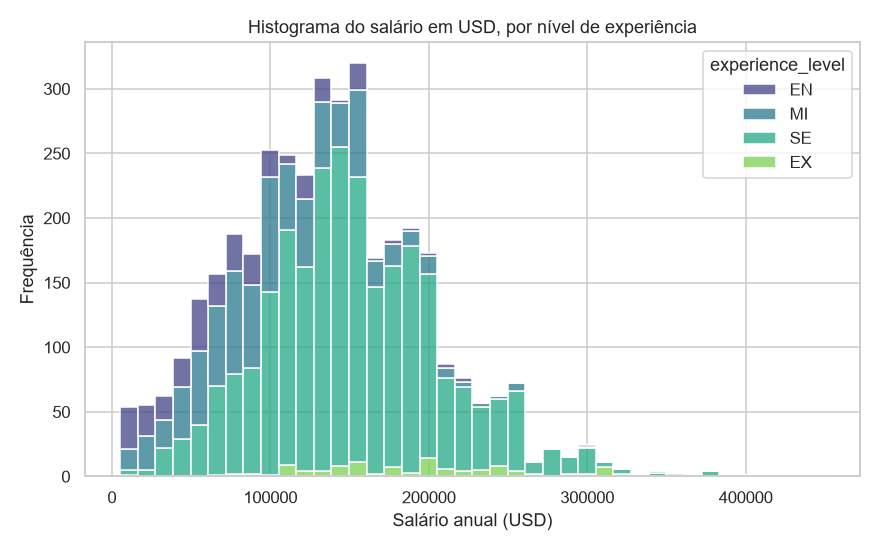
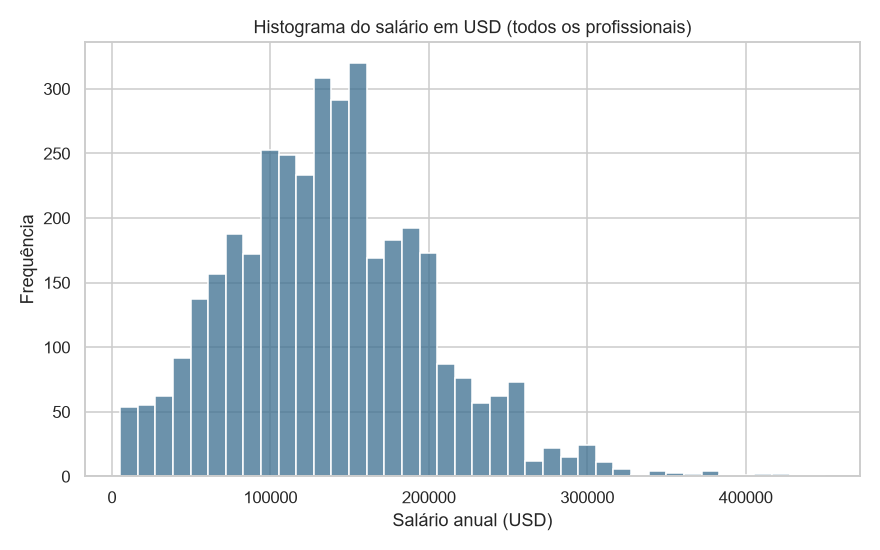
Correções em alguns comandos

diff --git a/inferencia-estatistica.py b/inferencia-estatistica.py
@@ -15,8 +15,8 @@ Variável de agrupamento (k >= 3 grupos independentes): experience_level
 
 Por que Kruskal-Wallis (e não ANOVA)?
     - Dados de salário costumam ser fortemente assimétricos (poucos salários
-      muito altos "puxam" a distribuição), violando a suposição de
-      normalidade exigida pela ANOVA.
+      muito altos "puxam" a distribuição). Por isso testamos a normalidade
+      (Shapiro-Wilk) para decidir entre ANOVA e Kruskal-Wallis.
     - Kruskal-Wallis é a alternativa não paramétrica à ANOVA de um fator,
       pois compara as distribuições (postos/ranks) de 3 ou mais grupos
       independentes sem exigir normalidade.
@@ -34,14 +34,11 @@ import scikit_posthocs as sp
 sns.set_theme(style="whitegrid")
 plt.rcParams["figure.dpi"] = 110
 
-# -----------------------------------------------------------------------------
-# 1. IMPORTAÇÃO DA BASE DE DADOS
-# -----------------------------------------------------------------------------
+# 1. IMPORTAÇÃO DA BASE DE DADOS -----------------------------------------------------------------------------
 df = pd.read_csv("ds_salaries.csv")
 
-print("=" * 80)
-print("1. IMPORTAÇÃO DA BASE DE DADOS")
-print("=" * 80)
+print()
+print("1. IMPORTAÇÃO DA BASE DE DADOS", "-" * 80)
 print(f"Dimensões do dataset: {df.shape[0]} linhas x {df.shape[1]} colunas")
 print(df.head(), "\n")
 
@@ -57,12 +54,8 @@ df["experience_level"] = pd.Categorical(
     df["experience_level"], categories=ordem_niveis, ordered=True
 )
 
-# -----------------------------------------------------------------------------
-# 2. ANÁLISE EXPLORATÓRIA DOS DADOS
-# -----------------------------------------------------------------------------
-print("=" * 80)
-print("2. ANÁLISE EXPLORATÓRIA")
-print("=" * 80)
+# 2. ANÁLISE EXPLORATÓRIA DOS DADOS -----------------------------------------------------------------------------
+print("2. ANÁLISE EXPLORATÓRIA", "-" * 80)
 
 print("Frequência de observações por grupo (n por nível de experiência):")
 print(df["experience_level"].value_counts().sort_index(), "\n")
@@ -76,20 +69,21 @@ resumo = (
 print("Tabela-resumo do salário (USD) por nível de experiência:")
 print(resumo, "\n")
 
-# --- Histograma -------------------------------------------------------------
+# Histograma GERAL do salário (visão da forma da distribuição -> assimetria).
+# Importante: aqui NÃO separamos por grupo (a comparação entre grupos já é
+# feita pelo boxplot, de forma muito mais legível). Os grupos têm tamanhos
+# bem diferentes (SE tem 2516 obs. e EX tem 114), então um histograma
+# empilhado por grupo fica poluído e os grupos pequenos somem visualmente.
 plt.figure(figsize=(8, 5))
-sns.histplot(
-    data=df, x="salary_in_usd", hue="experience_level",
-    multiple="stack", bins=40, palette="viridis"
-)
-plt.title("Histograma do salário em USD, por nível de experiência")
+sns.histplot(data=df, x="salary_in_usd", bins=40, color="#3b6e8f")
+plt.title("Histograma do salário em USD (todos os profissionais)")
 plt.xlabel("Salário anual (USD)")
 plt.ylabel("Frequência")
 plt.tight_layout()
 plt.savefig("01_histograma.png")
 plt.close()
 
-# --- Boxplot ------------------------------------------------------------
+# Boxplot por grupo: esta é a comparação entre os k grupos.
 plt.figure(figsize=(7, 5))
 sns.boxplot(
     data=df, x="experience_level", y="salary_in_usd",
@@ -102,7 +96,7 @@ plt.tight_layout()
 plt.savefig("02_boxplot.png")
 plt.close()
 
-# --- Gráfico adequado ao teste: distribuição dos POSTOS (ranks) -------------
+# Gráfico adequado ao teste: distribuição dos POSTOS (ranks)
 # O Kruskal-Wallis compara os postos (ranks) das observações entre os grupos,
 # por isso este gráfico mostra exatamente o que o teste avalia.
 df["posto_global"] = stats.rankdata(df["salary_in_usd"])
@@ -121,158 +115,165 @@ plt.close()
 
 print("Gráficos salvos: 01_histograma.png | 02_boxplot.png | 03_postos_rank.png\n")
 
-# -----------------------------------------------------------------------------
-# 3. VERIFICAÇÃO DOS PRESSUPOSTOS
-# -----------------------------------------------------------------------------
-print("=" * 80)
-print("3. VERIFICAÇÃO DOS PRESSUPOSTOS")
-print("=" * 80)
+# 3. VERIFICAÇÃO DOS PRESSUPOSTOS -----------------------------------------------------------------------------
+print("3. VERIFICAÇÃO DOS PRESSUPOSTOS", "-" * 80)
 print("""Pressupostos do teste de Kruskal-Wallis:
   (a) As amostras dos k grupos são independentes;
   (b) A variável resposta é, no mínimo, ordinal (aqui é quantitativa contínua);
-  (c) Sob H0, as distribuições dos grupos têm a mesma forma (apenas podem
-      diferir em locação/mediana) -> permite interpretar rejeição de H0 como
-      diferença de medianas. Quando as formas diferem muito, a conclusão deve
-      ser lida como "diferença estocástica/de distribuição" entre os grupos.
-Observação: o KW NÃO exige normalidade nem homogeneidade de variâncias - é
-exatamente por isso que ele é usado aqui no lugar da ANOVA.
+  (c) Sob H0, todos os grupos provêm da mesma distribuição populacional.
+O Kruskal-Wallis NÃO exige normalidade nem homogeneidade de variâncias - ele
+não tem isso como pressuposto. A normalidade é testada abaixo apenas para
+decidir se a ANOVA (paramétrica) seria apropriada.
 """)
 
-print("Teste de normalidade (Shapiro-Wilk) por grupo - apenas para JUSTIFICAR")
-print("a escolha do teste não paramétrico em vez da ANOVA:\n")
+print("Teste de Shapiro-Wilk por grupo, para verificar se a ANOVA seria apropriada:\n")
+algum_rejeitou_normalidade = False
 for g in ordem_niveis:
     amostra = df.loc[df["experience_level"] == g, "salary_in_usd"]
     # Shapiro-Wilk é sensível a amostras grandes; usamos amostra aleatória
     # de até 5000 obs. (limite do teste) apenas como referência.
     stat_sw, p_sw = stats.shapiro(amostra.sample(min(len(amostra), 5000),
                                                   random_state=42))
-    conclusao = "rejeita normalidade" if p_sw < 0.05 else "não rejeita normalidade"
+    normal = p_sw >= 0.05
+    algum_rejeitou_normalidade = algum_rejeitou_normalidade or not normal
+    conclusao = "compatível com normalidade" if normal else "rejeita normalidade"
     print(f"  {g}: n={len(amostra):4d} | W={stat_sw:.4f} | p-valor={p_sw:.4g} -> {conclusao}")
 
-print("\n=> Em pelo menos um grupo o pressuposto de normalidade é rejeitado,")
-print("   o que reforça a adequação do teste de Kruskal-Wallis (não paramétrico).\n")
-
-# -----------------------------------------------------------------------------
-# 4. FORMULAÇÃO DAS HIPÓTESES
-# -----------------------------------------------------------------------------
-print("=" * 80)
-print("4. HIPÓTESES (teste de Kruskal-Wallis - sempre bilateral/global)")
-print("=" * 80)
-print("""H0: as distribuições do salário são iguais em todos os níveis de
-    experiência (medianas iguais) -> EN = MI = SE = EX
-H1: pelo menos um nível de experiência apresenta distribuição de salário
-    estocasticamente diferente dos demais.
-Nível de significância adotado: alpha = 0,05
+print("""
+=> Foi realizado o teste de Shapiro-Wilk para verificar se a ANOVA seria
+   apropriada. Como a normalidade não foi observada em pelo menos um grupo,
+   optou-se pelo teste não paramétrico de Kruskal-Wallis.
 """)
 
-# -----------------------------------------------------------------------------
-# 5. EXEMPLO RESOLVIDO MANUALMENTE (cálculo passo a passo da estatística H)
-# -----------------------------------------------------------------------------
-print("=" * 80)
-print("5. CÁLCULO MANUAL DA ESTATÍSTICA H (passo a passo)")
-print("=" * 80)
+# 4. FORMULAÇÃO DAS HIPÓTESES -----------------------------------------------------------------------------
+print("4. HIPÓTESES (teste de Kruskal-Wallis - sempre bilateral/global)", "-" * 80)
+print("""H0: as distribuições do salário são iguais entre todos os níveis de
+    experiência (EN, MI, SE e EX vêm da mesma distribuição populacional).
+H1: pelo menos um nível de experiência apresenta distribuição de salário
+    estocasticamente diferente das demais.
+Nível de significância adotado: alpha = 0,05
 
-grupos = [df.loc[df["experience_level"] == g, "salary_in_usd"].values for g in ordem_niveis]
-n_total = sum(len(g) for g in grupos)
+Observação importante: o Kruskal-Wallis testa igualdade de DISTRIBUIÇÕES,
+não igualdade de medianas. A leitura "rejeitar H0 = medianas diferentes" só
+é estritamente válida quando os grupos têm distribuições de forma/dispersão
+semelhante, diferindo apenas em locação - por isso olhamos os boxplots (item
+2) para avaliar visualmente se essa suposição é razoável antes de falar em
+"diferença de mediana" na conclusão.
+""")
 
-# 5.1 Ranquear TODAS as observações juntas (postos médios em caso de empate)
-todos_valores = np.concatenate(grupos)
-postos = stats.rankdata(todos_valores)
+# 5. EXEMPLO RESOLVIDO MANUALMENTE -----------------------------------------------------------------------------
+# Este exemplo usa um conjunto de dados FICTÍCIO e pequeno, só para fins
+# didáticos (slide), já que não é viável acompanhar um cálculo manual com as
+# 3.755 observações da base real. A base real é tratada separadamente no
+# item 6, usando a função pronta do scipy.
+print("5. EXEMPLO RESOLVIDO MANUALMENTE (conjunto de dados fictício e pequeno)", "-" * 80)
+print("""Suponha 3 grupos fictícios com 4 observações cada (n = 12 no total),
+sem empates, apenas para ilustrar o passo a passo do cálculo de H:
 
-# 5.2 Separar os postos de volta por grupo e somar
+  Grupo EN: 45, 48, 50, 52
+  Grupo MI: 58, 60, 62, 65
+  Grupo SE: 75, 78, 80, 82
+""")
+
+grupos_didaticos = {
+    "EN": [45, 48, 50, 52],
+    "MI": [58, 60, 62, 65],
+    "SE": [75, 78, 80, 82],
+}
+
+valores_d = np.concatenate(list(grupos_didaticos.values()))
+postos_d = stats.rankdata(valores_d)
+
+print("Passo 1 - Ranquear TODOS os 12 valores juntos (do menor para o maior):")
 idx = 0
-R_j, n_j = [], []
-for g in grupos:
-    n_g = len(g)
-    R_j.append(postos[idx: idx + n_g].sum())
-    n_j.append(n_g)
+R_d, n_d = {}, {}
+for nome, vals in grupos_didaticos.items():
+    n_g = len(vals)
+    ranks_grupo = postos_d[idx: idx + n_g]
+    for v, r in zip(vals, ranks_grupo):
+        print(f"    valor = {v:3d}  ->  posto = {r:.0f}  (grupo {nome})")
+    R_d[nome] = ranks_grupo.sum()
+    n_d[nome] = n_g
     idx += n_g
 
-print("Soma dos postos (R_j) e tamanho (n_j) por grupo:")
-for nome, R, n in zip(ordem_niveis, R_j, n_j):
-    print(f"  Grupo {nome}: n_j = {n:5d} | R_j = {R:,.1f} | R_j/n_j = {R/n:.2f}")
+print("\nPasso 2 - Somar os postos (R_j) de cada grupo:")
+for nome in grupos_didaticos:
+    print(f"    Grupo {nome}: n_j = {n_d[nome]} | R_j = {R_d[nome]:.0f}")
 
-# 5.3 Fórmula manual de H (sem correção de empates)
-H_manual = (12 / (n_total * (n_total + 1))) * sum(
-    (R**2) / n for R, n in zip(R_j, n_j)
-) - 3 * (n_total + 1)
+n_total_d = len(valores_d)
+k_d = len(grupos_didaticos)
+gl_d = k_d - 1
 
-# 5.4 Fator de correção para empates (ties) - recomendado quando há muitos
-_, contagem_empates = np.unique(todos_valores, return_counts=True)
-fator_correcao = 1 - (np.sum(contagem_empates**3 - contagem_empates) /
-                       (n_total**3 - n_total))
-H_corrigido = H_manual / fator_correcao
-
-k = len(grupos)
-gl = k - 1  # graus de liberdade = k - 1
+H_d = (12 / (n_total_d * (n_total_d + 1))) * sum(
+    (R_d[g] ** 2) / n_d[g] for g in grupos_didaticos
+) - 3 * (n_total_d + 1)
 
 print(f"""
-Fórmula: H = [12 / (N(N+1))] * Σ(R_j² / n_j) - 3(N+1)
-  N (total de observações)        = {n_total}
-  k (número de grupos)            = {k}
-  Graus de liberdade (gl = k - 1) = {gl}
+Passo 3 - Aplicar a fórmula:
+    H = [12 / (N(N+1))] * Σ(R_j² / n_j) - 3(N+1)
+    N = {n_total_d}   k = {k_d}   gl = k - 1 = {gl_d}
 
-  H (sem correção de empates)     = {H_manual:.4f}
-  Fator de correção de empates    = {fator_correcao:.6f}
-  H (corrigido para empates)      = {H_corrigido:.4f}
+    H = [12 / ({n_total_d}x{n_total_d+1})] * ({R_d['EN']:.0f}²/{n_d['EN']} + {R_d['MI']:.0f}²/{n_d['MI']} + {R_d['SE']:.0f}²/{n_d['SE']})
+        - 3x({n_total_d}+1)
+    H = {H_d:.3f}
 """)
 
-# -----------------------------------------------------------------------------
-# 6. REGRA DE DECISÃO
-# -----------------------------------------------------------------------------
-print("=" * 80)
-print("6. REGRA DE DECISÃO")
-print("=" * 80)
+alpha_d = 0.05
+valor_critico_d = stats.chi2.ppf(1 - alpha_d, gl_d)
+p_valor_d = 1 - stats.chi2.cdf(H_d, gl_d)
+
+print(f"""Passo 4 - Regra de decisão (alpha = {alpha_d}):
+  (a) Valor crítico: Qui-Quadrado(gl={gl_d}; alpha={alpha_d}) = {valor_critico_d:.3f}
+      H ({H_d:.3f}) > valor crítico ({valor_critico_d:.3f})?
+      -> {"SIM, REJEITA H0" if H_d > valor_critico_d else "NÃO, NÃO REJEITA H0"}
+
+  (b) p-valor: p = {p_valor_d:.4f}
+      p-valor < alpha?  -> {"SIM, REJEITA H0" if p_valor_d < alpha_d else "NÃO, NÃO REJEITA H0"}
+
+  Conclusão do exemplo didático: como os três grupos fictícios foram criados
+  sem nenhuma sobreposição de valores, era esperado H grande e p-valor
+  pequeno -> rejeita-se H0 (grupos vêm de distribuições diferentes).
+""")
+
+# 6. APLICAÇÃO COMPUTACIONAL NA BASE REAL -----------------------------------------------------------------------------
+# Aqui usamos a função pronta diretamente sobre os 3.755 registros reais.
+print("6. APLICAÇÃO COMPUTACIONAL NA BASE REAL - scipy.stats.kruskal()", "-" * 80)
+grupos = [df.loc[df["experience_level"] == g, "salary_in_usd"].values for g in ordem_niveis]
+n_total = sum(len(g) for g in grupos)
+k = len(grupos)
+gl = k - 1
+
+H_scipy, p_scipy = stats.kruskal(*grupos)
 alpha = 0.05
 valor_critico = stats.chi2.ppf(1 - alpha, gl)
-p_valor_manual = 1 - stats.chi2.cdf(H_corrigido, gl)
 
-print(f"""(a) Método do valor crítico:
-    H estatístico (corrigido)         = {H_corrigido:.4f}
-    Valor crítico Qui-Quadrado(gl={gl}, alpha={alpha}) = {valor_critico:.4f}
-    Decisão: {"REJEITA H0" if H_corrigido > valor_critico else "NÃO REJEITA H0"}
-    (rejeita-se H0 se H_calculado > valor crítico)
-
-(b) Método do p-valor:
-    p-valor = {p_valor_manual:.6g}
-    Decisão: {"REJEITA H0" if p_valor_manual < alpha else "NÃO REJEITA H0"}
-    (rejeita-se H0 se p-valor < alpha)
-""")
-
-# -----------------------------------------------------------------------------
-# 7. APLICAÇÃO DO TESTE (verificação com a função pronta do scipy)
-# -----------------------------------------------------------------------------
-print("=" * 80)
-print("7. APLICAÇÃO COMPUTACIONAL - scipy.stats.kruskal()")
-print("=" * 80)
-H_scipy, p_scipy = stats.kruskal(*grupos)
+print(f"N total = {n_total} | k = {k} grupos | gl = {gl}")
 print(f"Estatística H (scipy) = {H_scipy:.4f}")
-print(f"p-valor   (scipy)     = {p_scipy:.6g}")
-print("(valores batem com o cálculo manual corrigido para empates acima)\n")
+print(f"p-valor   (scipy)     = {p_scipy:.6g}\n")
 
-# -----------------------------------------------------------------------------
-# 8. INTERPRETAÇÃO DOS RESULTADOS
-# -----------------------------------------------------------------------------
-print("=" * 80)
-print("8. INTERPRETAÇÃO")
-print("=" * 80)
+print("Regra de decisão (mesma lógica do exemplo manual, agora na base real):")
+print(f"  (a) Valor crítico Qui-Quadrado(gl={gl}, alpha={alpha}) = {valor_critico:.4f}")
+print(f"      Decisão: {'REJEITA H0' if H_scipy > valor_critico else 'NÃO REJEITA H0'}")
+print(f"  (b) p-valor = {p_scipy:.6g}")
+print(f"      Decisão: {'REJEITA H0' if p_scipy < alpha else 'NÃO REJEITA H0'}\n")
+
+# 7. INTERPRETAÇÃO DOS RESULTADOS  -----------------------------------------------------------------------------
+print("7. INTERPRETAÇÃO", "-" * 80)
 if p_scipy < alpha:
     print(f"""Como o p-valor ({p_scipy:.4g}) é menor que alpha (0,05), rejeitamos H0.
 Há evidência estatística de que pelo menos um nível de experiência possui
-distribuição de salário diferente dos demais. Isso é coerente com a tabela-
-resumo: as medianas crescem visivelmente de EN -> MI -> SE -> EX.
+distribuição de salário diferente dos demais. Os boxplots do item 2 mostram
+formas/dispersões razoavelmente parecidas entre os grupos, o que permite
+também ler o resultado como: as medianas de salário tendem a crescer de
+EN -> MI -> SE -> EX.
 """)
 else:
     print(f"""Como o p-valor ({p_scipy:.4g}) não é menor que alpha (0,05), não há
 evidência suficiente para rejeitar H0.
 """)
 
-# -----------------------------------------------------------------------------
-# 9. COMPARAÇÕES MÚLTIPLAS (POST-HOC) APÓS REJEIÇÃO DE H0
-# -----------------------------------------------------------------------------
-print("=" * 80)
-print("9. COMPARAÇÕES MÚLTIPLAS (TESTE DE DUNN, correção de Bonferroni)")
-print("=" * 80)
+# 8. COMPARAÇÕES MÚLTIPLAS (POST-HOC) APÓS REJEIÇÃO DE H0 -----------------------------------------------------------------------------
+print("8. COMPARAÇÕES MÚLTIPLAS (TESTE DE DUNN, correção de Bonferroni)", "-" * 80)
 posthoc = sp.posthoc_dunn(
     df, val_col="salary_in_usd", group_col="experience_level", p_adjust="bonferroni"
 )
@@ -290,12 +291,8 @@ plt.tight_layout()
 plt.savefig("04_posthoc_dunn_heatmap.png")
 plt.close()
 
-# -----------------------------------------------------------------------------
-# 10. TABELA-RESUMO FINAL DOS RESULTADOS
-# -----------------------------------------------------------------------------
-print("=" * 80)
-print("10. TABELA-RESUMO DOS RESULTADOS")
-print("=" * 80)
+# 9. TABELA-RESUMO FINAL DOS RESULTADOS -----------------------------------------------------------------------------
+print("9. TABELA-RESUMO DOS RESULTADOS (base real)", "-" * 80)
 tabela_final = pd.DataFrame({
     "Estatística": ["H (Kruskal-Wallis)", "Graus de liberdade", "p-valor",
                      "Valor crítico (alpha=0,05)", "Decisão"],
@@ -305,12 +302,9 @@ tabela_final = pd.DataFrame({
 print(tabela_final.to_string(index=False))
 tabela_final.to_csv("05_tabela_resumo_resultados.csv", index=False)
 
-# -----------------------------------------------------------------------------
-# 11. CONCLUSÃO
-# -----------------------------------------------------------------------------
-print("\n" + "=" * 80)
-print("11. CONCLUSÃO")
-print("=" * 80)
+# 10. CONCLUSÃO -----------------------------------------------------------------------------
+print()
+print("10. CONCLUSÃO", "-" * 80)
 print("""O teste de Kruskal-Wallis indicou diferença estatisticamente significativa
 na distribuição de salários (USD) entre os níveis de experiência dos
 profissionais de Ciência de Dados. O teste de Dunn (pós-hoc) permite